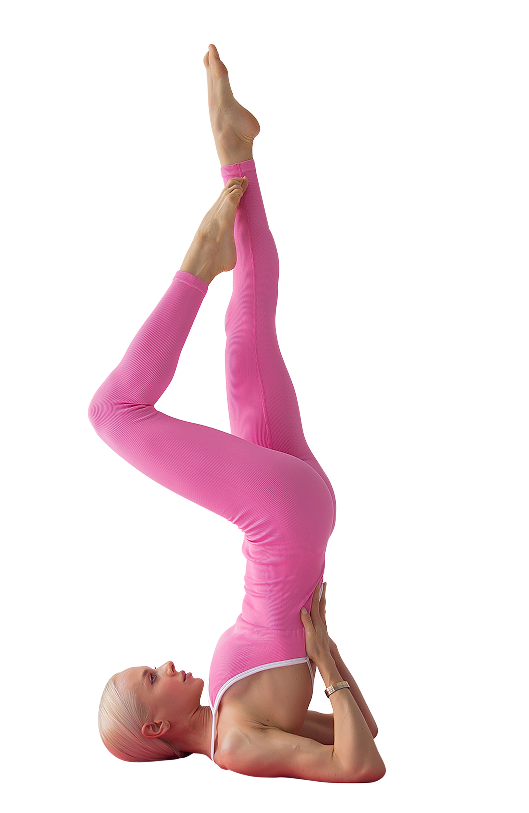
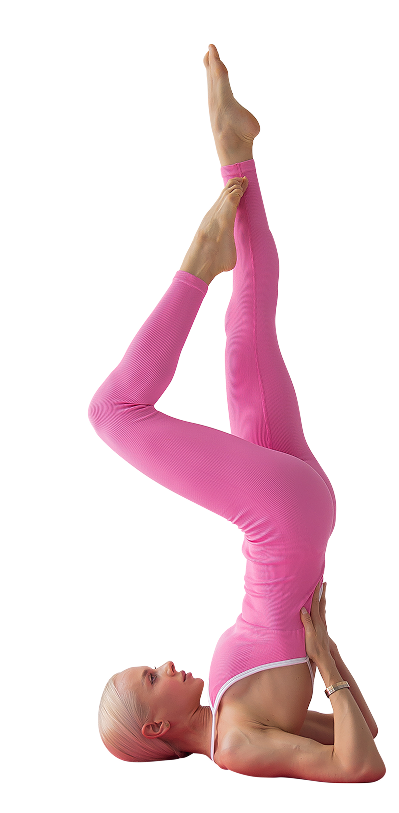
dff

diff --git a/assets/css/style.css b/assets/css/style.css
@@ -679,7 +679,7 @@ audio {
   background-size: cover;
   width: 100%;
   height: 100%;
-  top: 35rem;
+  top: 30rem;
   left: 0;
 }
 .footer .space__body {
@@ -693,7 +693,7 @@ audio {
 .footer .space__body .space__img {
   position: relative;
   z-index: 2;
-  transform: translateX(100px);
+  transform: translateX(35px);
 }
 .footer .space__body .space__img img {
   max-width: 530px;
@@ -1037,7 +1037,11 @@ audio {
     display: none;
   }
   .footer .space__body .space__img img {
+    width: 280px;
     padding-left: 0;
+    position: absolute;
+    top: -16rem;
+    left: 0;
   }
 }
 @media (max-width: 820.98px) {
@@ -1067,6 +1071,11 @@ audio {
   }
   .training__body .item__tr-text .training_btn {
     max-width: 187px;
+  }
+  .footer .space__body .space__img {
+    position: relative;
+    z-index: 3;
+    transform: translate(26px, 96px);
   }
 }
 @media (max-width: 768.98px) {
@@ -1149,8 +1158,6 @@ audio {
     max-width: 180px;
   }
   .footer .space__body .space__img {
-    margin-top: -14em;
-    margin-left: -18em;
     position: relative;
     z-index: 3;
   }

diff --git a/assets/css/style.scss b/assets/css/style.scss
@@ -658,7 +658,7 @@ audio {
 		background-size: cover;
 		width: 100%;
 		height: 100%;
-		top: 35rem;
+		top: 30rem;
 		left: 0;
 	}
 	.space__body {
@@ -671,7 +671,7 @@ audio {
 		.space__img {
 			position: relative;
 			z-index: 2;
-			transform: translateX(100px);
+			transform: translateX(35px);
 			img {
 				max-width: 530px;
 			}
@@ -1037,11 +1037,16 @@ audio {
 			}
 			.space__img {
 				img {
+					width: 280px;
 					padding-left: 0;
+					position: absolute;
+					top: -16rem;
+					left: 0;
 				}
 			}
 		}
 	}
+
 }
 @media (max-width:820.98px) {
 	.hero__body {
@@ -1079,6 +1084,11 @@ audio {
 				max-width: 187px;
 			}
 		}
+	}
+	.footer .space__body .space__img {
+		position: relative;
+		z-index: 3;
+		transform: translate(26px, 96px);
 	}
 }
 @media (max-width:768.98px) {
@@ -1175,8 +1185,6 @@ audio {
 				}
 			}
 			.space__img {
-				margin-top: -14em;
-				margin-left: -18em;
 				position: relative;
 				z-index: 3;
 				img {
